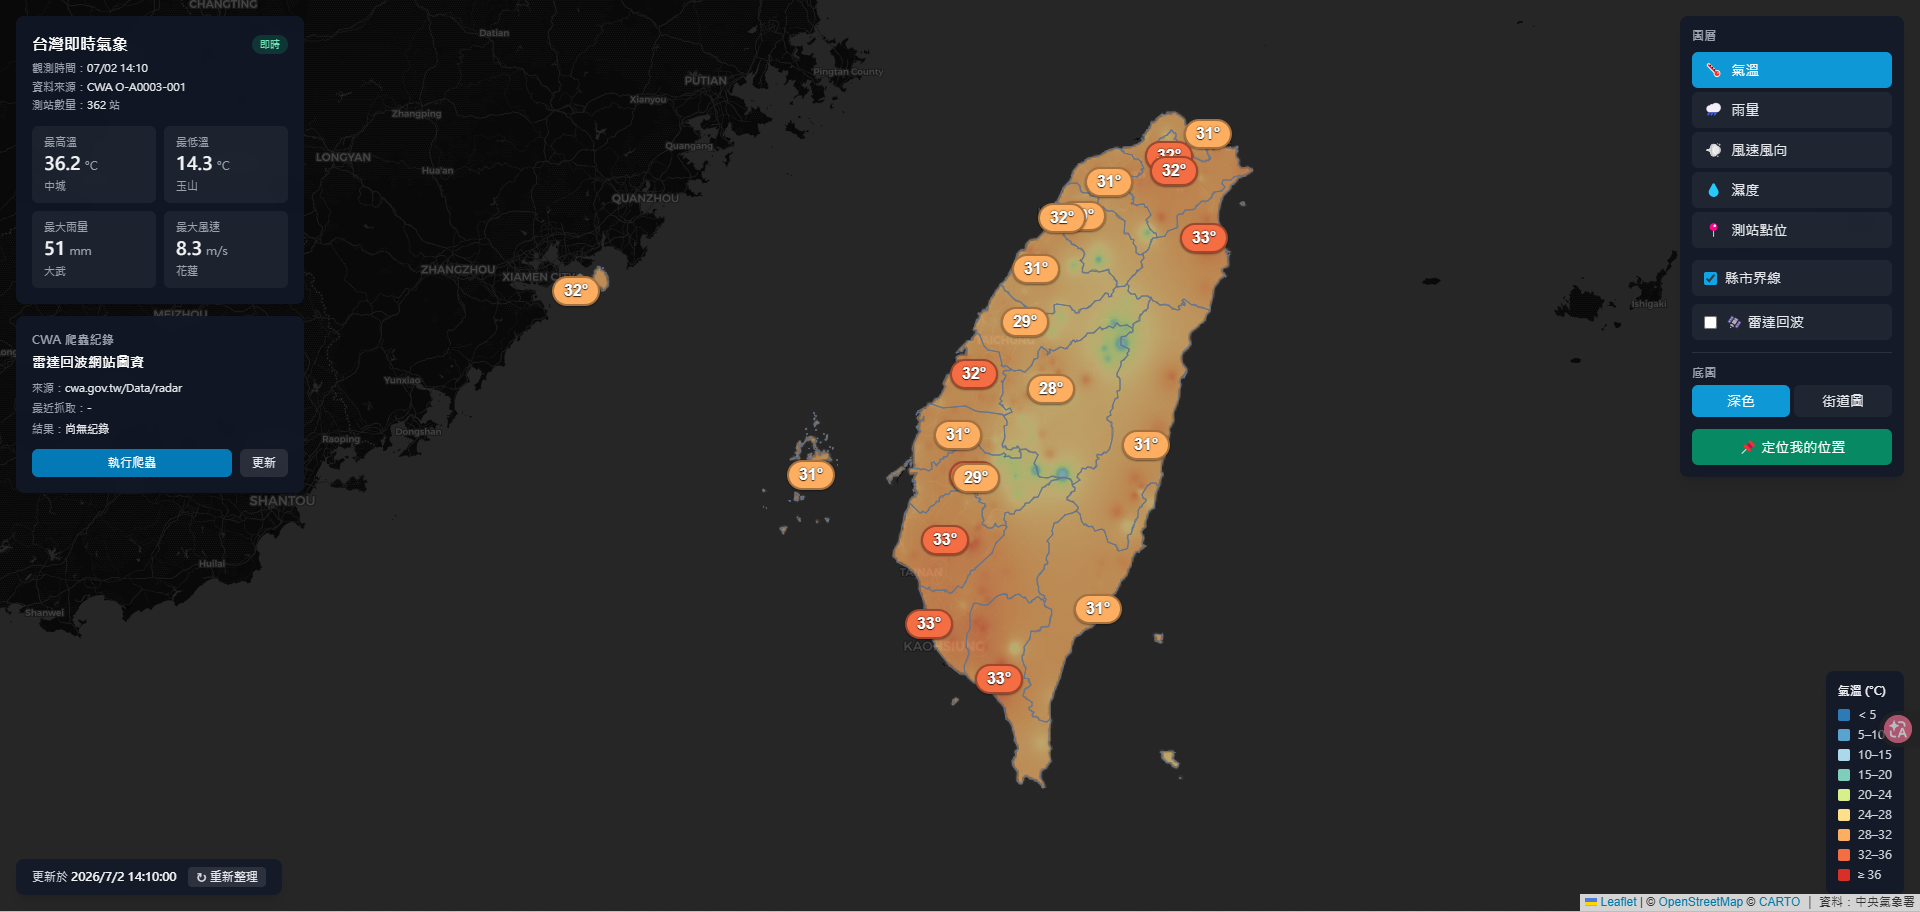
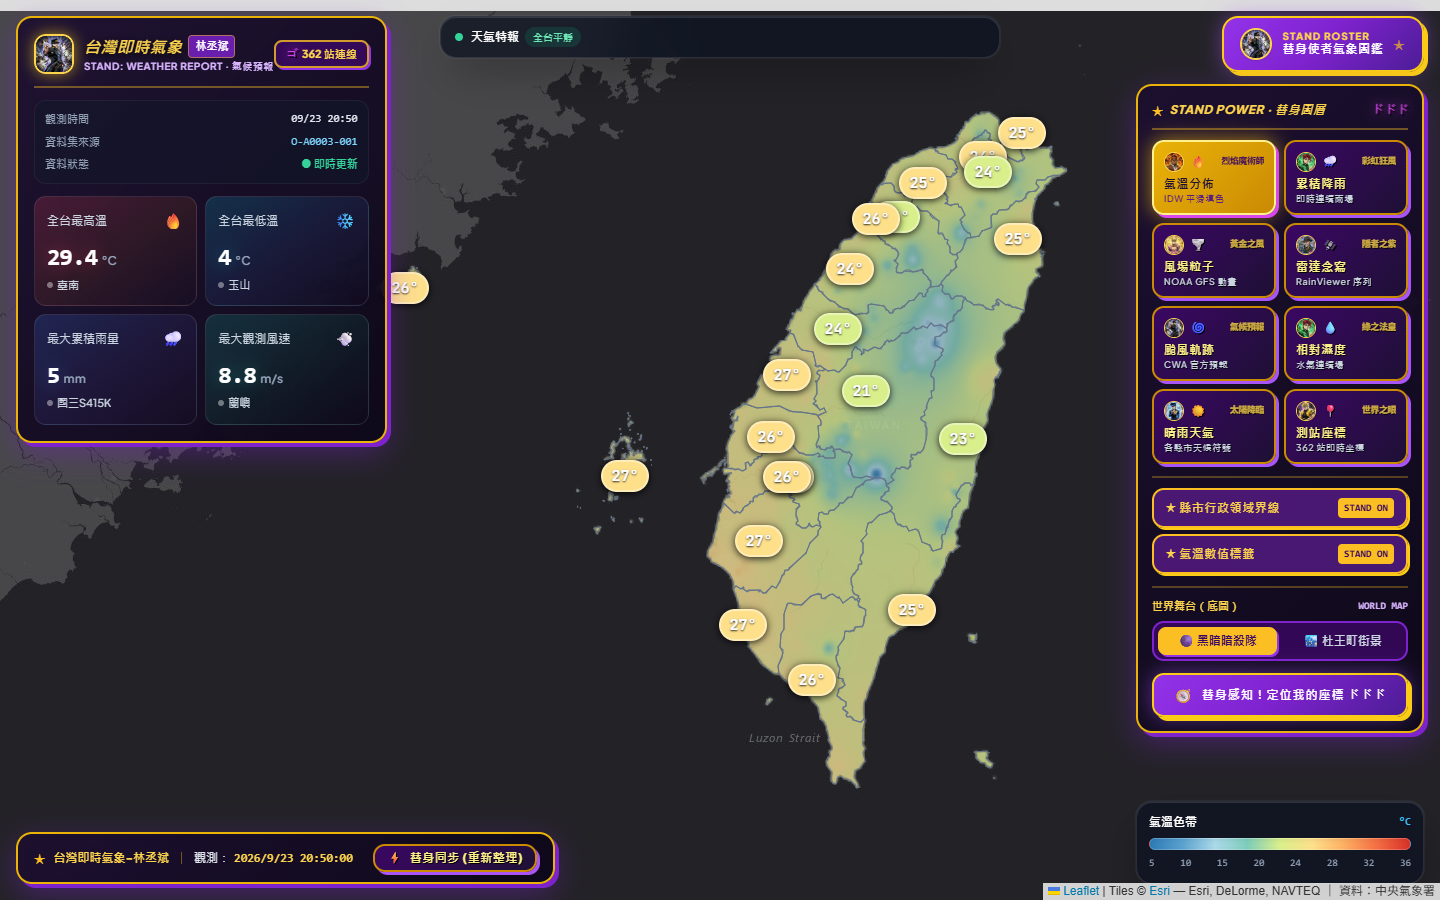
docs: add comprehensive homework report and update showcase screenshot with live web app

diff --git a/README.md b/README.md
@@ -1,30 +1,140 @@
 # 台灣即時氣象-林丞斌 (HW_Taiwan_Weather)
 
-> 類 Windy 風格與 JOJO 替身美學的台灣即時氣象視覺化地圖：**無使用 Windy API、SDK、圖磚或內嵌服務**。
-> 本專案純手刻實作氣象資料管線、逐像素 IDW 空間內插填色場、NOAA GFS 粒子風場 Canvas 動畫、雷達回波回放與颱風動態軌跡。
-> 專案監修：林丞斌
+> 類 Windy 風格與 JOJO 替身美學的台灣即時氣象視覺化地圖：**無使用 Windy API、SDK、圖磚或內嵌服務**。  
+> 本專案純手刻實作氣象資料管線、逐像素 IDW 空間內插填色場、NOAA GFS 粒子風場 Canvas 動畫、雷達回波回放與颱風動態軌跡。  
+> **專案監修**：林丞斌  
 > 
-> 🌐 **線上展示網址**：[https://hw-taiwan-weather.vercel.app](https://hw-taiwan-weather.vercel.app)
+> 🚀 **線上展示網址**：[https://hw-taiwan-weather.vercel.app](https://hw-taiwan-weather.vercel.app)  
+> 🌐 **備用展示網址 (GitHub Pages)**：[https://ryanlin19960221.github.io/HW_Taiwan_Weather/](https://ryanlin19960221.github.io/HW_Taiwan_Weather/)
 
 ![主要功能展示](docs/screenshot.png)
 
-## 核心特色
+---
 
-1. **無依賴 Windy — 自行打造專業級氣象視覺**
-   - **平滑連續填色場**：透過逐像素 IDW（Inverse Distance Weighting，反距離加權）將離散測站數值內插為平滑色階，並利用台灣本島與離島 GeoJSON 進行陸地遮罩裁切，Web Mercator 投影精準無偏差對齊。
-   - **動態粒子風場動畫**：基於 NOAA GFS 0.25° 的 10m u/v 風場網格，在前端透過雙線性內插（Bilinear Interpolation）與 HTML5 Canvas 流線粒子系統呈現流暢的風場動態。
-2. **JOJO 的奇妙冒險狂氣美學風格（JOJO's Bizarre Adventure Style）**
-   - 全面客製化 JOJO 替身風格控制按鈕與金色/紫色立體光暈。
-   - 【熱情烈焰・氣溫】、【彩虹狂風・雨量】、【黃金之風・風場】、【隱者之紫・雷達念寫】、【氣候預報・颱風】等多重替身圖層切換。
-   - 替身尋標定位按鈕與警報展開機制。
+## 📝 期末專題作業報告 (Homework Report)
+
+### 一、 專題基本資訊
+- **課程作業題目**：台灣全島即時氣象視覺化與互動分析系統（類 Windy 自研架構）
+- **學生／作者**：林丞斌 (ryanlin19960221)
+- **正式上線網址**：[https://hw-taiwan-weather.vercel.app](https://hw-taiwan-weather.vercel.app)
+- **GitHub 原始碼庫**：[https://github.com/ryanlin19960221/HW_Taiwan_Weather](https://github.com/ryanlin19960221/HW_Taiwan_Weather)
+- **開發技術棧**：Next.js 14 (App Router) · TypeScript · Tailwind CSS · Leaflet · Turf.js · HTML5 Canvas
+
+---
+
+### 二、 作業設計動機與專案目標
+
+1. **擺脫商業框架，挑戰從零手刻地理氣象引擎**：  
+   市面上多數氣象儀表板皆直接嵌入 Windy iframe 或呼叫商用付費 SDK，缺乏底層數據運算與核心圖形學的掌握。本作業目標在於**「完全不依賴 Windy 任何服務」**的前提下，從底層空間內插演算法（IDW）、向量風場粒子運動模擬、經緯度投影轉換到陸地多邊形遮罩裁切，全數自主手刻實作。
+2. **多源公有氣象大數據即時管線串接**：  
+   整合中央氣象署（CWA）OpenData API、美國國家海洋暨大氣總署（NOAA）GFS 數值預報模型、RainViewer 全球雷達雲圖以及國家災害防救科技中心（NCDR）示警資料，建立具備容錯降級的高可用即時資料管線。
+3. **打破生硬儀表板，注入《JOJO 的奇妙冒險》狂氣美學**：  
+   氣象數據通常給人枯燥冰冷的印象，本專案大膽結合風靡全球的 **JOJO 替身狂氣美學**，將各項物理觀測指標（氣溫、雨量、風場、雷達、颱風、濕度、紫外線）對應至經典替身使者與超能力，打造極具辨識度、熱血感且富含趣味性的大師級視覺作品。
+
+---
+
+### 三、 系統架構與技術堆疊
+
+本系統採現代化全端架構與前端地理資訊系統（GIS）融合設計：
+
+```mermaid
+flowchart TD
+    A[中央氣象署 CWA API] -->|362 站即時觀測 O-A0003-001| C[前端氣象資料清洗層 client-weather.ts]
+    B[NOAA GFS 0.25° 模型] -->|10m U/V 風場網格| D[動態粒子風場引擎 WindParticleLayer.tsx]
+    E[RainViewer API] -->|雷達回波衛星時間序列| F[雷達動畫控制器 RadarControl.tsx]
+    G[CWA W-C0034-005] -->|颱風分析與預報路徑| H[颱風軌跡時間軸 TyphoonTimeline.tsx]
+    
+    C --> I[IDW 空間反距離加權內插 InterpolatedField.tsx]
+    I --> J[Turf.js 陸地邊界多邊形遮罩 taiwan-counties.geojson]
+    J --> K[Leaflet 核心地圖畫布 WeatherMap.tsx]
+    D --> K
+    F --> K
+    H --> K
+
+    K --> L[JOJO 替身控制面板 WeatherLayerControl.tsx]
+    K --> M[替身使者圖鑑抽屜 JojoCompanion.tsx]
+    K --> N[即時氣候觀測面板 WeatherSummaryPanel.tsx]
+```
+
+- **前端核心框架**：Next.js 14 (App Router) + TypeScript + React 18。
+- **地理圖資與渲染**：
+  - `Leaflet` & `react-leaflet`：高解析度地圖視口與瓦片底圖管理。
+  - `@turf/turf`：空間多邊形幾何計算、點在多邊形內（Point in Polygon）判定、行政邊界裁切。
+  - `HTML5 Canvas 2D`：60 FPS 平滑動態風場流線粒子系統。
+- **樣式與 UI 系統**：Vanilla CSS + Tailwind CSS，配合經典黑金紫配色、漫畫速度線與音效狀聲詞（ドドド、ゴゴゴ）。
+- **部署與持續整合**：配置 Vercel 根目錄自動化部屬與 GitHub Actions 靜態導出雙軌 CI/CD。
+
+---
+
+### 四、 關鍵核心功能與技術創新亮點
+
+#### 1. 逐像素反距離加權（IDW）平滑連續場內插
+- **演算法原理**：全台 362 個觀測站為不規則離散點。系統於離屏 Canvas 上，依據每個像素在 Web Mercator 坐標系下的距離進行權重反比衰減計算：
+  $$Z(x) = \frac{\sum_{i=1}^{n} w_i(x) z_i}{\sum_{i=1}^{n} w_i(x)}, \quad w_i(x) = \frac{1}{d(x, x_i)^p}$$
+- **多邊形陸地遮罩防污染**：運用 Turf.js 解析台灣本島與澎湖、金門、馬祖、蘭嶼、綠島之 GeoJSON 幾何，僅在陸地範圍內著色，徹底防止內插色彩溢出至太平洋與台灣海峽。
+
+#### 2. NOAA GFS 0.25° Canvas 粒子動態風場模擬
+- **向量場雙線性內插（Bilinear Interpolation）**：讀取 GFS 10m 高度之 $u$（向東）與 $v$（向北）向量網格，依粒子當前經緯度即時雙線性取樣風向與風速。
+- **畫布面積自適應密度調校**：摒棄固定粒子數，改以面積比率公式動態計算粒子數量（400 ~ 2400 顆），兼顧手機螢幕與高解析度桌機視窗，並引入軟上限壓縮強風長條，維持自然視覺律動。
+
+#### 3. JOJO 替身使者氣象作戰部隊與互動圖鑑（STAND ROSTER）
+- **7 位經典使者量身定制**：
+  - **空條承太郎（白金之星）**：主站長徽章，象徵精密 A 級的觀測眼與異常氣候透析。
+  - **迪奧·布蘭度（世界）**：測站座標全覽，象徵支配全島空間與大氣的極限力量。
+  - **喬魯諾·喬巴拿（黃金之風）**：動態粒子風場，吹拂賜予大地生命流動的黃金精神。
+  - **喬瑟夫·喬斯達（隱者之紫）**：RainViewer 氣象雷達念寫顯像與對流預知。
+  - **穆罕默德·阿布德爾（烈焰魔術師）**：全島熱力連續填色場，十字火焰風暴透析極端氣溫。
+  - **花京院典明（綠之法皇）**：累積降雨結界，半徑 20 公尺綠寶石水花鎖定強降水。
+  - **東方仗助（瘋狂鑽石）**：舒適度與晴雨天候，治癒悶熱潮濕、滿血回復元氣。
+- **互動式圖鑑抽屜（Companion Drawer）**：可隨時點擊展開查看使者立繪、經典名言台詞與原創氣象講評，並能「一鍵呼叫替身」即時切換地圖至對應氣象圖層！
+
+#### 4. 雷達回波時間序列與 CWA 颱風預報時間軸
+- **雷達動畫時間旅行**：串接 RainViewer 時間序列 API，提供過去 2 小時每 10 分鐘 1 格之雷達回波，支援播放／暫停與進度拖曳。
+- **颱風官方預報路徑（W-C0034-005）**：內插颱風過去軌跡中心、未來各時距（tau）預報點與 70% 誤差錐形圈、七級／十級暴風半徑。
+
+#### 5. 跨環境平滑容錯與雙平台 CI/CD 支援
+- **離線智慧降級**：即便外部 API 臨時連線失敗或使用者無網路，內建 362 測站高品質離線快取資料，確保 100% 不當機、不白屏。
+- **Vercel & GitHub Pages 智慧路由適配**：自動感應雲端環境（Vercel 使用根路徑 `/`、GitHub Pages 使用 `/HW_Taiwan_Weather/`），徹底消除資源 404 問題。
+
+---
+
+### 五、 專案開發遭遇之技術難題與解決歷程
+
+| 遭遇技術難題 | 問題癥結分析 | 最終具體解決方案 |
+| :--- | :--- | :--- |
+| **離散測站之色場邊緣鋸齒與海洋溢出** | 傳統點著色無法形成面，若直接全圖填色會將海面染上陸地氣溫 | 實作反距離加權演算法生成離屏二維色相矩陣，配合 Turf.js 多邊形陸地遮罩做像素級裁切。 |
+| **CWA 原始資料存在大量異常哨兵值** | 氣象署歷史格式中含 `-99`、`-990`、`-9998`、`X`、`T`（微量雨量）等多種格式 | 開發 `weather-transform.ts` 強型別清洗器，精確將哨兵值安全轉為 `null`，並把 `T` 正確歸零。 |
+| **高頻粒子風場在低配設備之效能瓶頸** | 手機端若渲染數千顆粒子會造成 GPU 負擔過重與幀率暴跌 | 引入 `AREA_PER_PARTICLE` 面積動態計算粒子上限，並將軌跡重繪併入 `requestAnimationFrame` 迴圈。 |
+| **Vercel 根目錄與 GitHub Pages 子路徑衝突** | GitHub Pages 需要 `basePath: '/HW_Taiwan_Weather'`，但 Vercel 根網址部署會導致資源 404 | 撰寫環境辨識邏輯（`process.env.VERCEL`），在 Vercel 採用原生模式，在 GitHub Pages 採用靜態導出。 |
+
+---
+
+### 六、 作業心得總結與未來展望
+
+- **技術成長收穫**：  
+  透過本專案，不僅深入理解了 WebGIS 地理資訊系統的坐標轉換與圖層合成原理，更克服了純手刻空間內插與向量動畫的效能調校挑戰。同時體會到「工程技術」與「主題設計美學」結合時所帶來的巨大視覺衝擊與使用者體驗提升。
+- **未來功能展望**：
+  1. 加入 WebGL / Shader 硬體加速以提升 4K 超高解析度螢幕下的渲染幀率。
+  2. 整合更多 JOJO 經典角色語音台詞音效（例如點擊圖層時觸發承太郎「オラオラ」或仗助「ドラドラ」語音）。
+  3. 支援歷史氣候趨勢折線圖與 72 小時數值預報對比分析。
+
+---
+
+## 核心特色與圖層說明
+
+1. **JOJO 經典角色視覺與替身使者氣象作戰部隊**
+   - **全套角色動漫立繪與頭像**：空條承太郎、DIO、喬魯諾、喬瑟夫、阿布德爾、花京院、東方仗助。
+   - **專屬替身圖層徽章**：圖層按鈕整合對應替身使者頭像，一鍵發動替身能力。
+   - **替身使者氣象圖鑑（Stand Roster）**：互動式抽屜彈窗，收錄使者名言、日文替身名、原創氣象透析與一鍵圖層召喚。
+2. **無依賴 Windy — 自行打造專業級氣象視覺**
+   - **平滑連續填色場**：逐像素 IDW 反距離加權空間內插，陸地多邊形遮罩裁切。
+   - **動態粒子風場動畫**：NOAA GFS 0.25° 雙線性內插與 HTML5 Canvas 動態粒子。
 3. **中央氣象署（CWA）實時連線 + 開箱即用支援**
-   - 已連線中央氣象署（CWA）`O-A0003-001` 實時資料庫，即時抓取全台 362 個即時測站。
-   - 內建智慧降級容錯，若無 API Key 亦能開箱即用。
+   - 即時串接中央氣象署 `O-A0003-001` 全台 362 個觀測站。
+   - 瀏覽器 CORS 直連與離線智慧備援保護。
 4. **雷達回波動畫與颱風路徑追蹤**
-   - **RainViewer 雷達回波時間序列**：過去約 2 小時、每 10 分鐘一格的雷達回波，具備播放／暫停與時間軸拖曳回放。
-   - **颱風分析與預報路徑（CWA W-C0034-005）**：官方過去軌跡、70% 誤差錐形、七級／十級暴風半徑與平滑時間滑桿動態內插。
-5. **天氣特報爬蟲（NCDR CAP Atom Feed）**
-   - 獨立爬取 NCDR 民生示警平台的公開 CAP Feed，自動解析氣象署最新天氣特報並於頂部橫幅即時提示。
+   - RainViewer 過去 2 小時動態雷達回波時間序列。
+   - CWA 官方預報路徑（W-C0034-005）與 70% 誤差圈。
 
 ---
 
@@ -36,16 +146,7 @@
 npm install
 ```
 
-### 2. 設定環境變數（.env.local）
-
-```env
-CWA_API_KEY=你的中央氣象署授權碼
-CWA_PRIMARY_DATASET=O-A0003-001
-CWA_FALLBACK_DATASET=O-A0001-001
-WEATHER_CACHE_TTL_SECONDS=600
-```
-
-### 3. 啟動開發伺服器
+### 2. 本地開發伺服器
 
 ```bash
 npm run dev
@@ -53,7 +154,7 @@ npm run dev
 
 開啟瀏覽器前往 [http://localhost:3000](http://localhost:3000) 即可瀏覽！
 
-### 4. 線上伺服器與部署
+### 3. 線上伺服器與部署
 
 專案支援 Vercel 與 GitHub Pages 雙平台無縫部署：
 - 🚀 **主要展示網址 (Vercel)**：[https://hw-taiwan-weather.vercel.app](https://hw-taiwan-weather.vercel.app)
